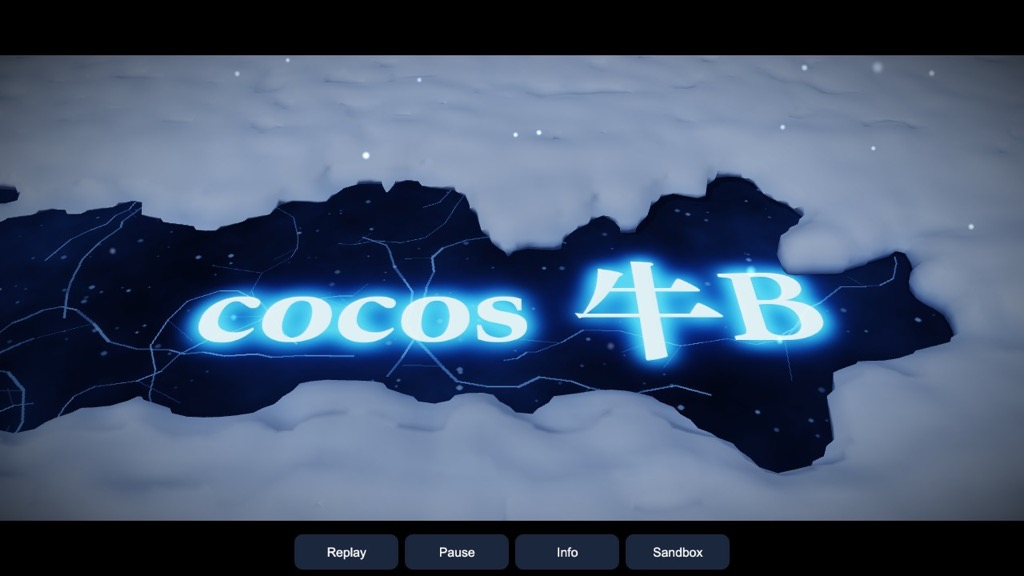
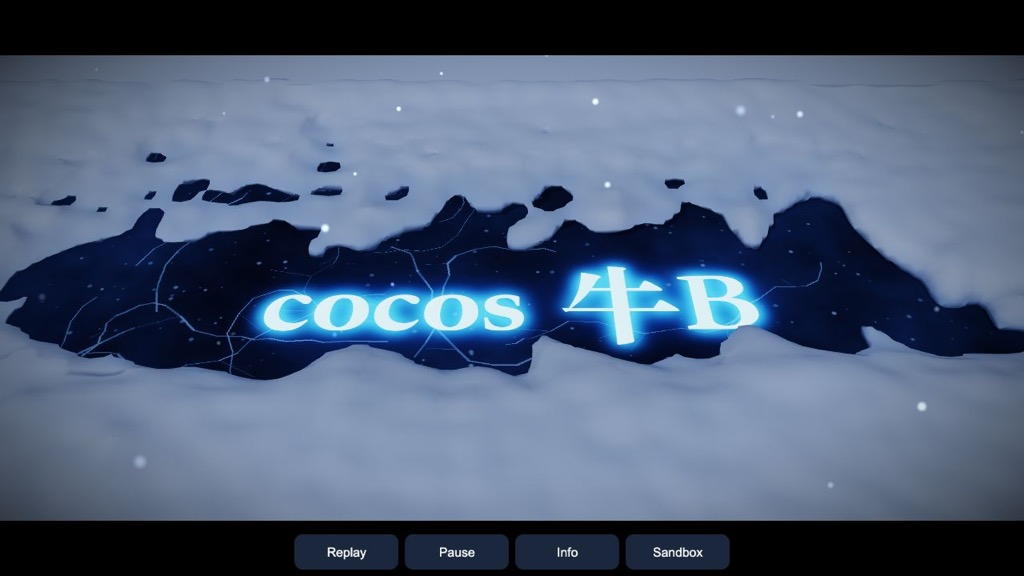
snow-3d shot: palm-down brush with the cinematic's beat (land, rest, brush)
The arm reaches in from across the ice, palm down, fingers toward the camera,
and brushes out with the little-finger edge after a short rest; the forearm
no longer rises into the lens. Camera opens on the landing spot and follows.
Surface iso 0.42 so loosened snow along the stroke stays whole; snowfield
covers the patch's sagging edges. 94% of the text band bare.

diff --git a/snow-3d/assets/game/ShotView.ts b/snow-3d/assets/game/ShotView.ts
@@ -25,6 +25,7 @@ const SPRAY = 4000;
 /** Awake snow faster than this is also drawn as loose powder. */
 const SPRAY_SPEED = 0.25;
 const SURROUND = 3;
+const EDGE_COVER = 0.03;
 
 function load<T>(path: string, type: new () => T): Promise<T> {
     return new Promise((resolve, reject) =>
@@ -117,9 +118,10 @@ export class ShotView extends Component implements IView {
         this.mesher = new SurfaceMesher([s.lo, s.lo, s.lo], [s.hiX, s.lo + MESH_TOP, s.hiZ], MESH_CELL, MESH_RADIUS, 90000);
         this.mesher.setClip(s.lo, s.lo, s.lo, s.hiX, s.lo + MESH_TOP, s.hiZ);
         const spacing = SHOT.dx / SHOT.perCell;
-        // Surface at half of full density. A single leftover layer of particles on the ice only reaches
-        // (105/128)·spacing/R ≈ 33% of it, so a wiped line reads as bare ice.
-        this.mesher.iso = 0.5 * ((32 * Math.PI) / 105) * MESH_RADIUS ** 3 / spacing ** 3;
+        // Surface at 42% of full density. A single leftover layer of particles on the ice only reaches
+        // (105/128)·spacing/R ≈ 33% of it, so a wiped line reads as bare ice; at 50% the loosened snow
+        // along the stroke breaks up into holes, at 38% it creeps back over the letters.
+        this.mesher.iso = 0.42 * ((32 * Math.PI) / 105) * MESH_RADIUS ** 3 / spacing ** 3;
         this.mesher.minY = s.lo + SHOT.dusting;
         s.onSleep = (p, asleep) => this.mesher.addToBase(s.x[p], s.y[p], s.z[p], asleep ? 1 : -1);
         this.replay();
@@ -219,12 +221,13 @@ export class ShotView extends Component implements IView {
         this.box(root, 'Slab', [cx, s.lo - 0.051, cz], [w, 0.1, l], mats.stone, false);
 
         // Untouched snowfield around the tray, flush with the settled snow, so the simulated patch has no edges.
-        const big = SURROUND;
+        // It reaches EDGE_COVER in over the tray, where the simulated surface sags against the walls.
+        const big = SURROUND + EDGE_COVER;
         const parts: [number, number, number, number][] = [
-            [cx, s.lo - big / 2, w + 2 * big, big], // back (−z)
-            [cx, s.hiZ + big / 2, w + 2 * big, big], // front (+z)
-            [s.lo - big / 2, cz, big, l], // left
-            [s.hiX + big / 2, cz, big, l], // right
+            [cx, s.lo - SURROUND / 2 + EDGE_COVER / 2, w + 2 * SURROUND, big], // back (−z)
+            [cx, s.hiZ + SURROUND / 2 - EDGE_COVER / 2, w + 2 * SURROUND, big], // front (+z)
+            [s.lo - SURROUND / 2 + EDGE_COVER / 2, cz, big, l], // left
+            [s.hiX + SURROUND / 2 - EDGE_COVER / 2, cz, big, l], // right
         ];
         for (const [x, z, sw, sl] of parts) {
             const node = this.box(root, 'Snowfield', [x, 0, z], [sw, 1, sl], mats.flat, true);
@@ -312,7 +315,7 @@ export class ShotView extends Component implements IView {
         const size = view.getVisibleSize();
         const aspect = size.width / size.height;
         const halfV = Math.tan((this.camera.fov * Math.PI) / 360);
-        this.framing = Math.max(1.0, (SHOT.text.w / 2 + 0.14) / (halfV * aspect));
+        this.framing = Math.max(1.25, (SHOT.text.w / 2 + 0.14) / (halfV * aspect));
     }
 
     private seedFlurries(): void {
@@ -378,7 +381,7 @@ export class ShotView extends Component implements IView {
         }
         let sum = 0, n = 0;
         for (let i = 1; i < bx - 1; i++) for (let k = 1; k < bz - 1; k++) { sum += top[i + k * bx]; n++; }
-        // The surface sits a little under the top particle centres (iso at 40% of full density).
+        // The surface sits a little under the top particle centres.
         this.snowTop = sum / n - 0.004;
         this.placeSurround();
     }
@@ -450,14 +453,18 @@ export class ShotView extends Component implements IView {
         return col.subarray(0, m.vertexCount * 4);
     }
 
-    /** High and wide while the hand comes in, then a slow push in and down onto the words. */
+    /**
+     * High and wide on the landing spot left of the words, following the brush across,
+     * then a slow push in and down onto the words.
+     */
     private applyCamera(): void {
         const T = TIMELINE;
-        const u = ease((this.t - T.down) / (T.end - 1 - T.down));
+        const u = ease((this.t - T.land) / (T.end - 1 - T.land));
+        const follow = ease((this.t - T.brush) / (T.wipeEnd + 0.6 - T.brush));
         const pitch = (55 - 13 * u) * (Math.PI / 180);
         const dist = this.framing * (1.1 - 0.22 * u);
-        const yaw = (-6 + 6 * u) * (Math.PI / 180);
-        const target = new Vec3(0.02 * (1 - u), 0, -0.03 * u);
+        const yaw = (-5 + 5 * u) * (Math.PI / 180);
+        const target = new Vec3(-0.14 * (1 - follow), 0, -0.03 * u);
         this.cameraNode.setPosition(
             target.x + dist * Math.cos(pitch) * Math.sin(yaw),
             target.y + dist * Math.sin(pitch),
@@ -473,7 +480,7 @@ export class ShotView extends Component implements IView {
     /** The words are lit faintly under the snow, brighten as they are uncovered and then breathe. */
     private applyGlow(): void {
         const T = TIMELINE;
-        const reveal = ease((this.t - T.down) / (T.wipeEnd + 1 - T.down));
+        const reveal = ease((this.t - T.brush) / (T.wipeEnd + 1 - T.brush));
         const breathe = this.t > T.exit ? 0.15 * Math.sin((this.t - T.exit) * 2.2) : 0;
         const g = 0.35 + 1.25 * reveal + breathe * reveal;
         this.iceMaterial.setProperty('emissiveScale', new Vec3(g, g, g));

diff --git a/snow-3d/assets/game/snow/Shot.ts b/snow-3d/assets/game/snow/Shot.ts
@@ -1,4 +1,4 @@
-import { PARTS, type HandPose } from './Hand';
+import { PARTS, toWorld, type HandPose } from './Hand';
 import type { Bed } from './Scenes';
 import { BORDER, type SnowParams } from './SnowSim';
 
@@ -31,9 +31,15 @@ export const SHOT = {
     text: { w: 0.9, h: 0.15 },
     /** Lowest point of the gauntlet above the ice while wiping. */
     clearance: 0.0,
-    /** Fingers trailing the wrist, as in a wipe (tools/shot-tune.mts compares poses). */
-    lean: -0.55,
-    yaw: 0,
+    /**
+     * Palm down, fingertips tipped 0.2 rad toward the ice. The arm reaches in from across the
+     * ice (from the far right), fingers toward the camera, and brushes outward with the
+     * little-finger edge leading; the forearm rises away from the camera instead of into it.
+     * Only the fingers reach the ice (within 3 cm); the palm and cuff skim the top of the 7 cm
+     * layer, so the stroke clears a band about a hand wide (tools/shot-tune.mts compares poses).
+     */
+    lean: -Math.PI / 2 + 0.2,
+    yaw: -Math.PI / 2 + 0.3,
 };
 
 export function shotSize(): { nx: number; ny: number; nz: number } {
@@ -54,13 +60,23 @@ export function wristHeight(lean: number, scale: number, clearance: number): num
     return clearance - low;
 }
 
+/**
+ * The beat of the cinematic: the palm comes down onto the snow left of the words,
+ * rests there a moment, then brushes slowly across and lifts away.
+ */
 export const TIMELINE = {
-    enter: 1.0,
-    down: 1.5,
-    wipeEnd: 3.6,
-    exit: 4.5,
-    end: 9,
+    enter: 0.6,
+    land: 1.6,
+    brush: 2.3,
+    wipeEnd: 4.9,
+    exit: 5.9,
+    end: 10.5,
 };
+
+/** Middle of the fingers and thumb in hand space: the part that brushes the snow. */
+const BRUSH_CENTRE = [0.015, -0.155, 0.02];
+
+const smooth = (u: number) => { const c = Math.min(Math.max(u, 0), 1); return c * c * (3 - 2 * c); };
 
 /**
  * Hand pose at time t (s) of the shot. `cx, cz` is the tray centre and `floor`
@@ -68,32 +84,44 @@ export const TIMELINE = {
  */
 export function shotPose(t: number, cx: number, cz: number, floor: number): HandPose {
     const T = TIMELINE;
-    const k = SHOT.handScale;
-    const low = floor + wristHeight(SHOT.lean, k, SHOT.clearance);
-    const half = SHOT.text.w / 2 + 0.1;
-    // Start a little behind the text band and finish past it, so the wipe covers the whole line.
-    const start = { x: cx - half, y: low, z: cz + 0.01 };
-    const end = { x: cx + half, y: low, z: cz - 0.01 };
-    const smooth = (u: number) => { const c = Math.min(Math.max(u, 0), 1); return c * c * (3 - 2 * c); };
-    const pose: HandPose = { x: start.x - 0.25, y: floor + 0.75, z: start.z + 0.05, yaw: SHOT.yaw, lean: SHOT.lean };
+    const low = floor + wristHeight(SHOT.lean, SHOT.handScale, SHOT.clearance);
+    // The wrist sits off the brushing fingers; place it so the fingers run along the text band.
+    const off: number[] = [];
+    toWorld({ x: 0, y: 0, z: 0, yaw: SHOT.yaw, lean: SHOT.lean }, BRUSH_CENTRE, off, 0, SHOT.handScale);
+    const half = SHOT.text.w / 2 + 0.08;
+    const start = { x: cx - half - off[0], z: cz - off[2] };
+    const end = { x: cx + half - off[0], z: cz - off[2] - 0.01 };
+    const pose: HandPose = { x: start.x - 0.2, y: floor + 0.7, z: start.z + 0.1, yaw: SHOT.yaw, lean: SHOT.lean };
     if (t < T.enter) return pose;
-    if (t < T.down) {
-        const u = smooth((t - T.enter) / (T.down - T.enter));
-        pose.x += (start.x - pose.x) * u;
-        pose.y += (start.y - pose.y) * u;
-        pose.z += (start.z - pose.z) * u;
+    if (t < T.land) {
+        // Down onto the snow, slowing into the touch.
+        const u = (t - T.enter) / (T.land - T.enter);
+        const e = 1 - (1 - u) * (1 - u) * (1 - u);
+        pose.x += (start.x - pose.x) * smooth(u);
+        pose.y += (low - pose.y) * e;
+        pose.z += (start.z - pose.z) * smooth(u);
+        return pose;
+    }
+    if (t < T.brush) {
+        // The pause: the hand settles a few millimetres as the weight comes onto it.
+        const u = (t - T.land) / (T.brush - T.land);
+        pose.x = start.x;
+        pose.y = low + 0.004 * Math.sin(Math.PI * Math.min(1, u * 1.5));
+        pose.z = start.z;
         return pose;
     }
     if (t < T.wipeEnd) {
-        const u = smooth((t - T.down) / (T.wipeEnd - T.down));
+        const u = smooth((t - T.brush) / (T.wipeEnd - T.brush));
         pose.x = start.x + (end.x - start.x) * u;
         pose.y = low;
-        pose.z = start.z + (end.z - start.z) * u + 0.02 * Math.sin(Math.PI * u);
+        pose.z = start.z + (end.z - start.z) * u + 0.015 * Math.sin(Math.PI * u);
         return pose;
     }
     const u = smooth((t - T.wipeEnd) / (T.exit - T.wipeEnd));
-    pose.x = end.x + 0.25 * u;
-    pose.y = low + (0.8 - (low - floor)) * u;
-    pose.z = end.z - 0.15 * u;
+    pose.x = end.x + 0.15 * u;
+    pose.y = low + (0.75 - (low - floor)) * u;
+    pose.z = end.z + 0.12 * u;
+    // Fingers tip up as the hand leaves.
+    pose.lean = SHOT.lean - 0.35 * u;
     return pose;
 }

diff --git a/snow-3d/README.md b/snow-3d/README.md
@@ -14,22 +14,26 @@ button) opens a deep tray to dig in freely.
 ## The Lich King shot
 
 This is the close-up from the *Wrath of the Lich King* opening cinematic
-(2008), the one the memes replace the text in. The gauntlet comes down onto
-fresh snow over a sheet of ice and wipes once across it. Words frozen in the
-ice light up underneath. Here they read **cocos 牛B**.
+(2008), the one the memes replace the text in. The gauntlet's palm comes down
+onto fresh snow over a sheet of ice, rests a moment, then brushes the snow
+aside. Words frozen in the ice light up underneath. Here they read **cocos 牛B**.
 
-| The wipe | The words |
-|---|---|
-| ![Mid-wipe](shots/lichking-wipe.jpg) | ![Revealed](shots/lichking-reveal.jpg) |
+| The palm comes down | The brush | The words |
+|---|---|---|
+| ![Landing](shots/lichking-land.jpg) | ![Mid-brush](shots/lichking-wipe.jpg) | ![Revealed](shots/lichking-reveal.jpg) |
 
 - **Snow:** a 7 cm layer over a 1.8 × 1.0 m patch, 26 000 particles on a 2.5 cm grid.
   At this depth its own weight compresses it by at most ρgh/E ≈ 2 % (about
   0.6 mm), so it goes to sleep as filled, with no settling pass.
-  A wipe keeps about 5 000 particles awake.
-- **The hand** comes in from the upper left. Its fingers trail the wrist
-  (lean −0.55 rad) and the lowest claw sits right on the ice. It wipes 1.1 m in
-  2.1 s, then lifts out to the right. `tools/shot-tune.mts` compares hand poses
-  by how much of the text band they leave bare.
+  A brush keeps up to about 6 500 particles awake.
+- **The hand** reaches in from across the ice, palm down, fingers toward the
+  camera and tipped 0.2 rad toward the ice, so the forearm rises away from the
+  camera. The beat follows the cinematic: down onto the snow left of the words
+  (0.6–1.6 s, slowing into the touch), a 0.7 s rest while the weight settles,
+  then a slow 2.6 s brush to the right with the little-finger edge leading,
+  and a lift. Only the fingers reach the ice; the palm and cuff skim the top of
+  the layer and the trailing thumb leaves a shallow groove behind the stroke.
+  `tools/shot-tune.mts` compares hand poses by how much of the text band they leave bare.
 - **The ice** (`tools/ice_text.py`, PIL) is deep blue with cracks and trapped
   bubbles. The text is set in Songti SC Black, frosted with a carved bevel, plus
   a separate glow map. It uses `builtin-standard` with an albedo map and an
@@ -37,15 +41,19 @@ ice light up underneath. Here they read **cocos 牛B**.
   Change the words with `python3 tools/ice_text.py "…"`.
 - **Snow surface:** a wipe leaves one or two particle layers on the ice. The
   surface leaves out snow within 1.2 cm of the ice, so that dusting reads as
-  translucent, and its iso sits at half of full density, so the line reads as bare ice.
-  Thin snow at the edges of the line is tinted with the blue of the ice.
-- **Framing:** an untouched snowfield, flush with the settled surface, hides the
-  patch's edges. Linear night fog, about 2 500 blowing flakes, and loose powder
+  translucent. Its iso sits at 42 % of full density: high enough that the
+  dusting reads as bare ice, low enough that snow loosened along the stroke
+  doesn't break up into holes. Thin snow at the edges of the line is tinted with the blue of the ice.
+- **Framing:** an untouched snowfield, flush with the settled surface and
+  reaching 3 cm over the patch's sagging edges, hides the patch. Per-pixel
+  linear night fog that starts just behind the shot (so it also works when a
+  portrait screen pulls the camera back), about 2 500 blowing flakes, and loose powder
   (awake particles faster than 0.25 m/s) as soft additive points. A vignette and
-  2.2:1 bars appear on landscape screens. The camera pushes in from 55° to 42°.
+  2.2:1 bars appear on landscape screens. The camera opens on the landing spot,
+  follows the brush, and pushes in from 55° to 42°.
 
-In the preview, a whole frame of the wipe (simulation, surface and render)
-averages 12.9 ms, with a worst case of 20 ms.
+In the preview, a whole frame of the shot (simulation, surface and render)
+averages 10 ms, with a worst case of 24 ms during the brush.
 
 ## The sandbox
 
@@ -143,8 +151,8 @@ directional light casts shadows.
 | Gauntlet model on the capsules | 97 % of vertices within 3.5 cm |
 | Shot: hand pose at the start of the wipe | lowest claw 10.00 mm above the ice centre |
 | Shot: the wipe | stable, 25 923 particles |
-| Shot: text band left bare by one wipe | 92 % (needs ≥ 85 %) |
-| Shot: snow 30 cm from the line | unchanged |
+| Shot: text band left bare by one brush | 94 % (needs ≥ 85 %) |
+| Shot: snow 30 cm on the near side of the line (the arm comes from the far side) | unchanged |
 
 In the browser preview, simulating a sweep costs 15–30 ms per frame and the
 surface 3–4 ms. Settling a fresh bed costs about 55 ms per frame for its 40
@@ -182,8 +190,9 @@ node --no-warnings --import ./tools/ts-resolve.mjs tools/bench.mts
 
 ## Not in this demo yet
 
-- The shot next to the CG: the gauntlet is procedural, the edge of the wipe is
-  ragged rather than one clean stroke, and the glow is emissive only, with no bloom pass.
+- The shot next to the CG: the gauntlet is procedural with fixed, curled fingers
+  (so the palm can't lie fully flat), the edge of the stroke is ragged rather
+  than one clean line, and the glow is emissive only, with no bloom pass.
 
 - Loose powder that spills sideways (lower cohesion near the surface, or a second, weaker snow layer).
 - Snow sparkle / subsurface shading in a custom effect; screen-space surface smoothing.
